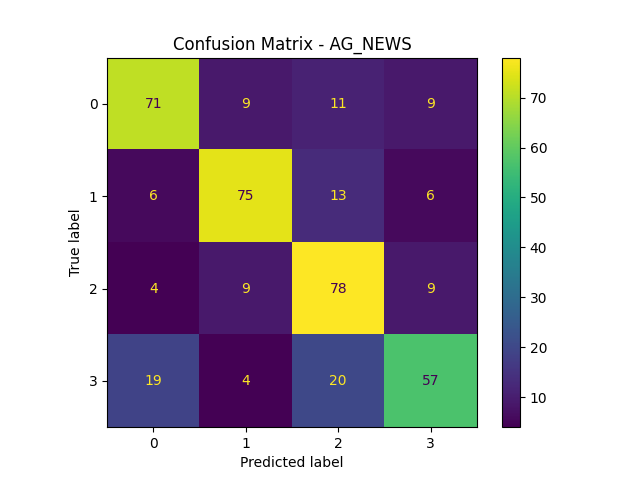
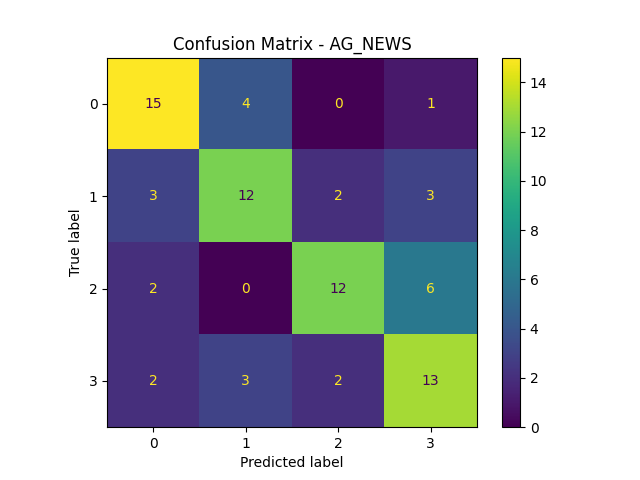
Update README with traditional baselines and results

diff --git a/code/baseline_models.py b/code/baseline_models.py
@@ -1,0 +1,136 @@
+import os
+import csv
+import random
+import sys
+
+from sklearn.feature_extraction.text import TfidfVectorizer
+from sklearn.linear_model import LogisticRegression
+from sklearn.naive_bayes import MultinomialNB
+from sklearn.svm import LinearSVC
+from sklearn.metrics import (
+    accuracy_score,
+    precision_score,
+    recall_score,
+    f1_score,
+    confusion_matrix,
+    classification_report,
+)
+
+from data import (
+    load_20news,
+    load_swahili,
+    load_kinnews_kirnews,
+    pick_n_sample_from_each_class_given_dataset,
+    pick_n_sample_from_each_class,
+)
+
+
+def load_selected_dataset(dataset_name, num_train, num_test):
+    if dataset_name == "AG_NEWS":
+        train_file = os.path.join("data", "datasets", "AG_NEWS", "train.csv")
+        test_file = os.path.join("data", "datasets", "AG_NEWS", "test.csv")
+        train_texts, train_labels = pick_n_sample_from_each_class(train_file, num_train)
+        test_texts, test_labels = pick_n_sample_from_each_class(test_file, num_test)
+
+    elif dataset_name == "20News":
+        train_ds, test_ds = load_20news()
+        train_texts, train_labels = pick_n_sample_from_each_class_given_dataset(train_ds, num_train)
+        test_texts, test_labels = pick_n_sample_from_each_class_given_dataset(test_ds, num_test)
+
+    elif dataset_name == "SwahiliNews":
+        train_ds, test_ds = load_swahili()
+        train_texts, train_labels = pick_n_sample_from_each_class_given_dataset(train_ds, num_train)
+        test_texts, test_labels = pick_n_sample_from_each_class_given_dataset(test_ds, num_test)
+
+    elif dataset_name == "KirundiNews":
+        train_ds, test_ds = load_kinnews_kirnews(
+            dataset_name="kinnews_kirnews",
+            data_split="kirnews_cleaned"
+        )
+        train_texts, train_labels = pick_n_sample_from_each_class_given_dataset(train_ds, num_train)
+        test_texts, test_labels = pick_n_sample_from_each_class_given_dataset(test_ds, num_test)
+
+    else:
+        raise ValueError(f"Unsupported dataset: {dataset_name}")
+
+    return train_texts, train_labels, test_texts, test_labels
+
+
+def evaluate_model(model, model_name, X_train, train_labels, X_test, test_labels):
+    model.fit(X_train, train_labels)
+    predictions = model.predict(X_test)
+
+    acc = accuracy_score(test_labels, predictions)
+    precision = precision_score(test_labels, predictions, average="macro", zero_division=0)
+    recall = recall_score(test_labels, predictions, average="macro", zero_division=0)
+    f1 = f1_score(test_labels, predictions, average="macro", zero_division=0)
+
+    cm = confusion_matrix(test_labels, predictions)
+    report = classification_report(test_labels, predictions, zero_division=0)
+
+    print(f"\nBaseline: {model_name}")
+    print(f"Accuracy: {acc:.4f}")
+    print(f"Precision: {precision:.4f}")
+    print(f"Recall: {recall:.4f}")
+    print(f"F1-score: {f1:.4f}")
+    print("\nConfusion Matrix:")
+    print(cm)
+    print("\nClassification Report:")
+    print(report)
+
+    return {
+        "method": model_name,
+        "accuracy": acc,
+        "precision": precision,
+        "recall": recall,
+        "f1": f1,
+    }
+
+
+def run_all_baselines(dataset_name="AG_NEWS", num_train=20, num_test=20, random_seed=42):
+    random.seed(random_seed)
+
+    train_texts, train_labels, test_texts, test_labels = load_selected_dataset(
+        dataset_name, num_train, num_test
+    )
+
+    vectorizer = TfidfVectorizer()
+    X_train = vectorizer.fit_transform(train_texts)
+    X_test = vectorizer.transform(test_texts)
+
+    models = [
+        ("TF-IDF + Logistic Regression", LogisticRegression(max_iter=1000, random_state=random_seed)),
+        ("TF-IDF + Naive Bayes", MultinomialNB()),
+        ("TF-IDF + SVM", LinearSVC(random_state=random_seed, dual="auto")),
+    ]
+
+    results = []
+
+    for model_name, model in models:
+        result = evaluate_model(model, model_name, X_train, train_labels, X_test, test_labels)
+        results.append(result)
+
+    os.makedirs("../results", exist_ok=True)
+
+    output_file = f"../results/{dataset_name}_baseline_models_results.csv"
+    with open(output_file, "w", newline="") as f:
+        writer = csv.writer(f)
+        writer.writerow(["Method", "Dataset", "Train/Class", "Test/Class", "Accuracy", "Precision", "Recall", "F1"])
+        for result in results:
+            writer.writerow([
+                result["method"],
+                dataset_name,
+                num_train,
+                num_test,
+                f"{result['accuracy']:.4f}",
+                f"{result['precision']:.4f}",
+                f"{result['recall']:.4f}",
+                f"{result['f1']:.4f}",
+            ])
+
+    print(f"\nAll baseline results saved in {output_file}")
+
+
+if __name__ == "__main__":
+    dataset_name = sys.argv[1] if len(sys.argv) > 1 else "AG_NEWS"
+    run_all_baselines(dataset_name=dataset_name, num_train=20, num_test=20)

diff --git a/README.md b/README.md
@@ -11,6 +11,10 @@ The goal of this project is to reproduce the original compression-based text cla
 - Confusion Matrix
 - Classification Report
 - Saving experiment results into the `results` folder
+- Comparison with traditional baselines:
+  - TF-IDF + Logistic Regression
+  - TF-IDF + Naive Bayes
+  - TF-IDF + SVM
 
 ---
 
@@ -23,11 +27,11 @@ ml-text-classification-project/
 │   ├── data.py
 │   ├── experiments.py
 │   ├── main_text.py
+│   ├── baseline_models.py
 │   ├── requirements.txt
-│   ├──utils.py
+│   ├── utils.py
 │   └── data/
 │       └── datasets/
-│                           
 ├── results/
 ├── README.md
 └── .gitignore
@@ -43,6 +47,11 @@ The workflow is:
 - Predict the class label using K-nearest neighbors
 - Print evaluation results
 - Save the results into the results folder
+In addition to the original compression-based method, this project also includes traditional machine learning baselines using TF-IDF features with:
+
+-Logistic Regression
+-Naive Bayes
+-SVM
 
 ## Environment:
 This project was tested using:
@@ -116,8 +125,11 @@ Compared to the original repository, this version adds:
 - Confusion Matrix
 - Classification Report
 - Saving evaluation results to a file in the results folder
-
-These additions make the evaluation more complete and easier to include in the report.
+- Traditional baseline comparison using:
+    -TF-IDF + Logistic Regression
+    -TF-IDF + Naive Bayes
+    -TF-IDF + SVM
+    
 
 ## Dataset Notes:
 The project structure supports multiple datasets, but some older dataset download links may fail because of outdated sources or compatibility issues.
@@ -125,7 +137,7 @@ The project structure supports multiple datasets, but some older dataset downloa
 
 ## Authors:
 - Wadhhaa Alotaibi
-- Soukiana Alwosaibea
+- Soukiana Alwosaibae
 
 ## Reference:
 This project is based on:
